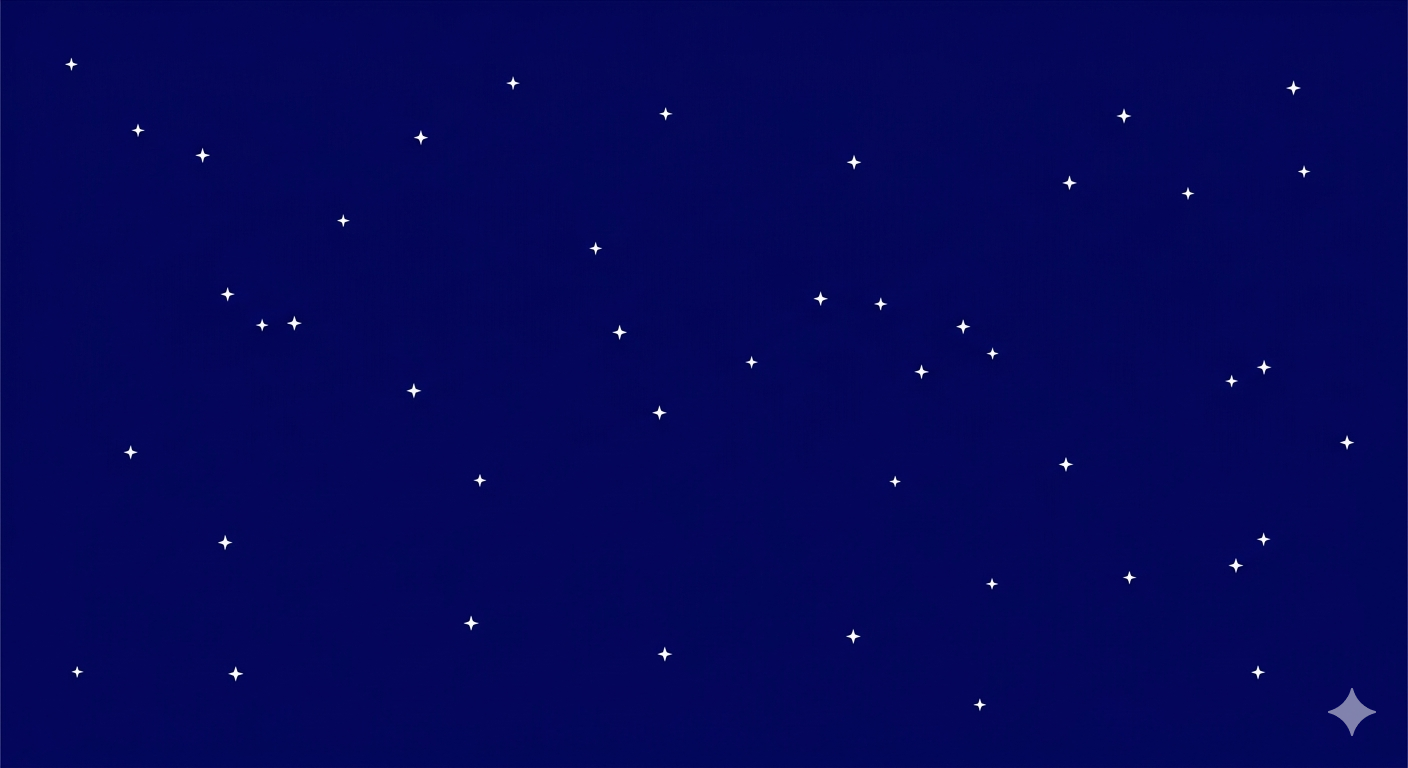
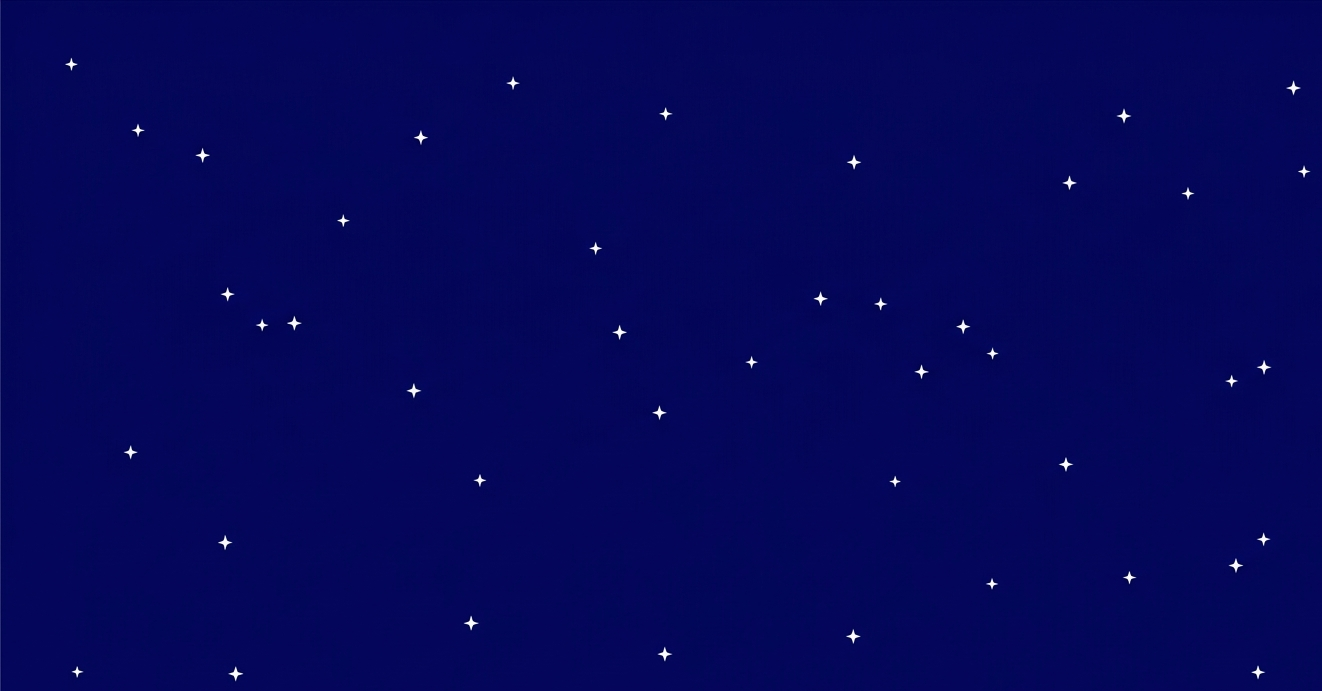
fix: minor bug fix

diff --git a/app/view/pages/Relatorios/Render/RelatorioView.tsx b/app/view/pages/Relatorios/Render/RelatorioView.tsx
@@ -3,7 +3,7 @@ import ComparativoMensal from "../ComparativoMensal";
 import DiasHorasMaisAtendidas from "../DiasHorasMaisAtendidas";
 import OrigemAgendamentos from "../OrigemAgendamentos";
 import PetsAusentes from "../PetsAusentes";
-import Remarcacoes from "../Remarcacoes";
+import RemarcacoesIntervals from "../RemarcacoesIntervals";
 
 export default function RelatorioView({ route }: { route: RelatorioType }) {
   switch (route) {
@@ -14,13 +14,11 @@ export default function RelatorioView({ route }: { route: RelatorioType }) {
     case RelatorioType.PetsAusentes:
       return <PetsAusentes />;
     case RelatorioType.Remarcacoes:
-      return <Remarcacoes />;
+      return <RemarcacoesIntervals />;
     case RelatorioType.ComparativoMensal:
       return <ComparativoMensal />;
     case RelatorioType.Pacotes:
-      return <OrigemAgendamentos />;
-    case RelatorioType.TaxaConclusao:
-      return <OrigemAgendamentos />;
+      return <OrigemAgendamentos />; // TODO
     default:
       return <DiasHorasMaisAtendidas />;
   }

diff --git a/app/view/pages/Relatorios/RemarcacoesIntervals.tsx b/app/view/pages/Relatorios/RemarcacoesIntervals.tsx
@@ -9,9 +9,9 @@ import { Screen } from "../../../config/consts";
 import TitleBar from "../../components/Cadastro/TitleBar";
 import BarChart, { BarChartItem } from "../../components/Relatorios/BarChart";
 import { useError } from "../../../hooks/useError";
-import { comparativoRemarcacao } from "../../../utils/relatorios/Remarcacoes";
+import { comparativoRemarcacao } from "../../../utils/relatorios/remarcacoes";
 
-export default function Remarcacoes() {
+export default function RemarcacoesIntervals() {
   const [petsRemarc, setPetsRemarc] = useState<BarChartItem[]>([]);
   const [loading, setLoading] = useState(true);
   const [error, setError] = useState<string | null>(null);

diff --git a/app/config/consts.ts b/app/config/consts.ts
@@ -79,7 +79,6 @@ export enum RelatorioType {
   Remarcacoes = "Remarcacoes",
   OrigemAgendamentos = "OrigemAgendamentos",
   ComparativoMensal = "ComparativoMensal",
-  TaxaConclusao = "TaxaConclusao",
   Pacotes = "Pacotes",
 }
 
